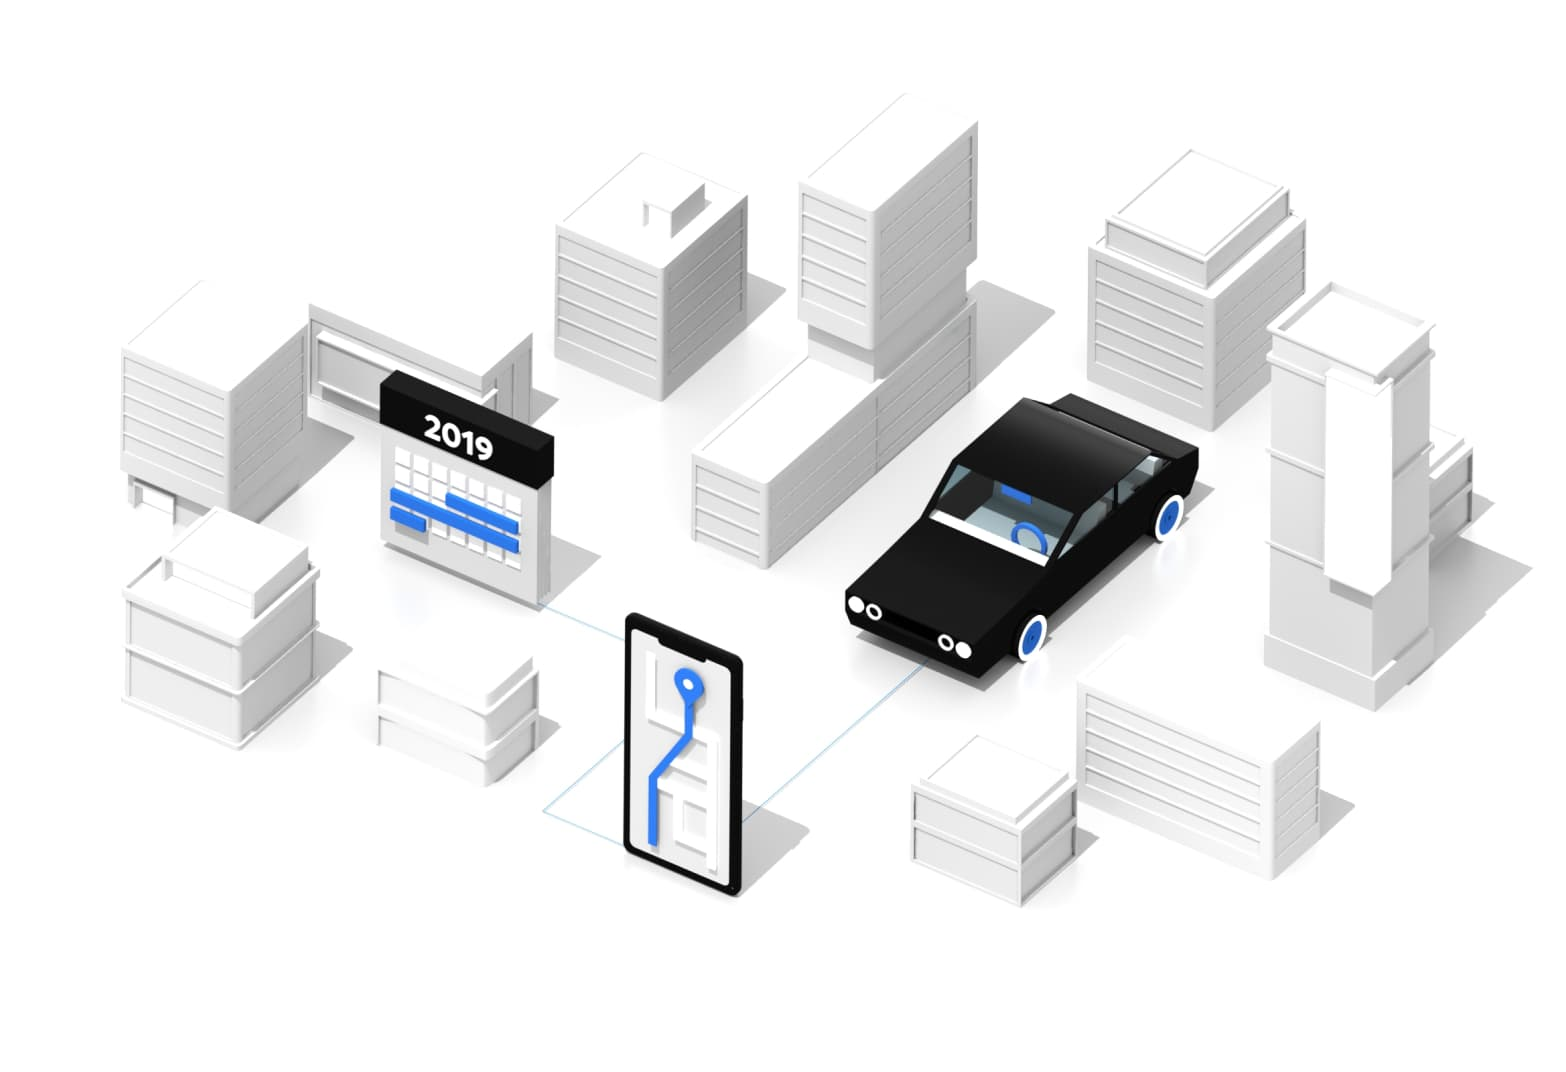
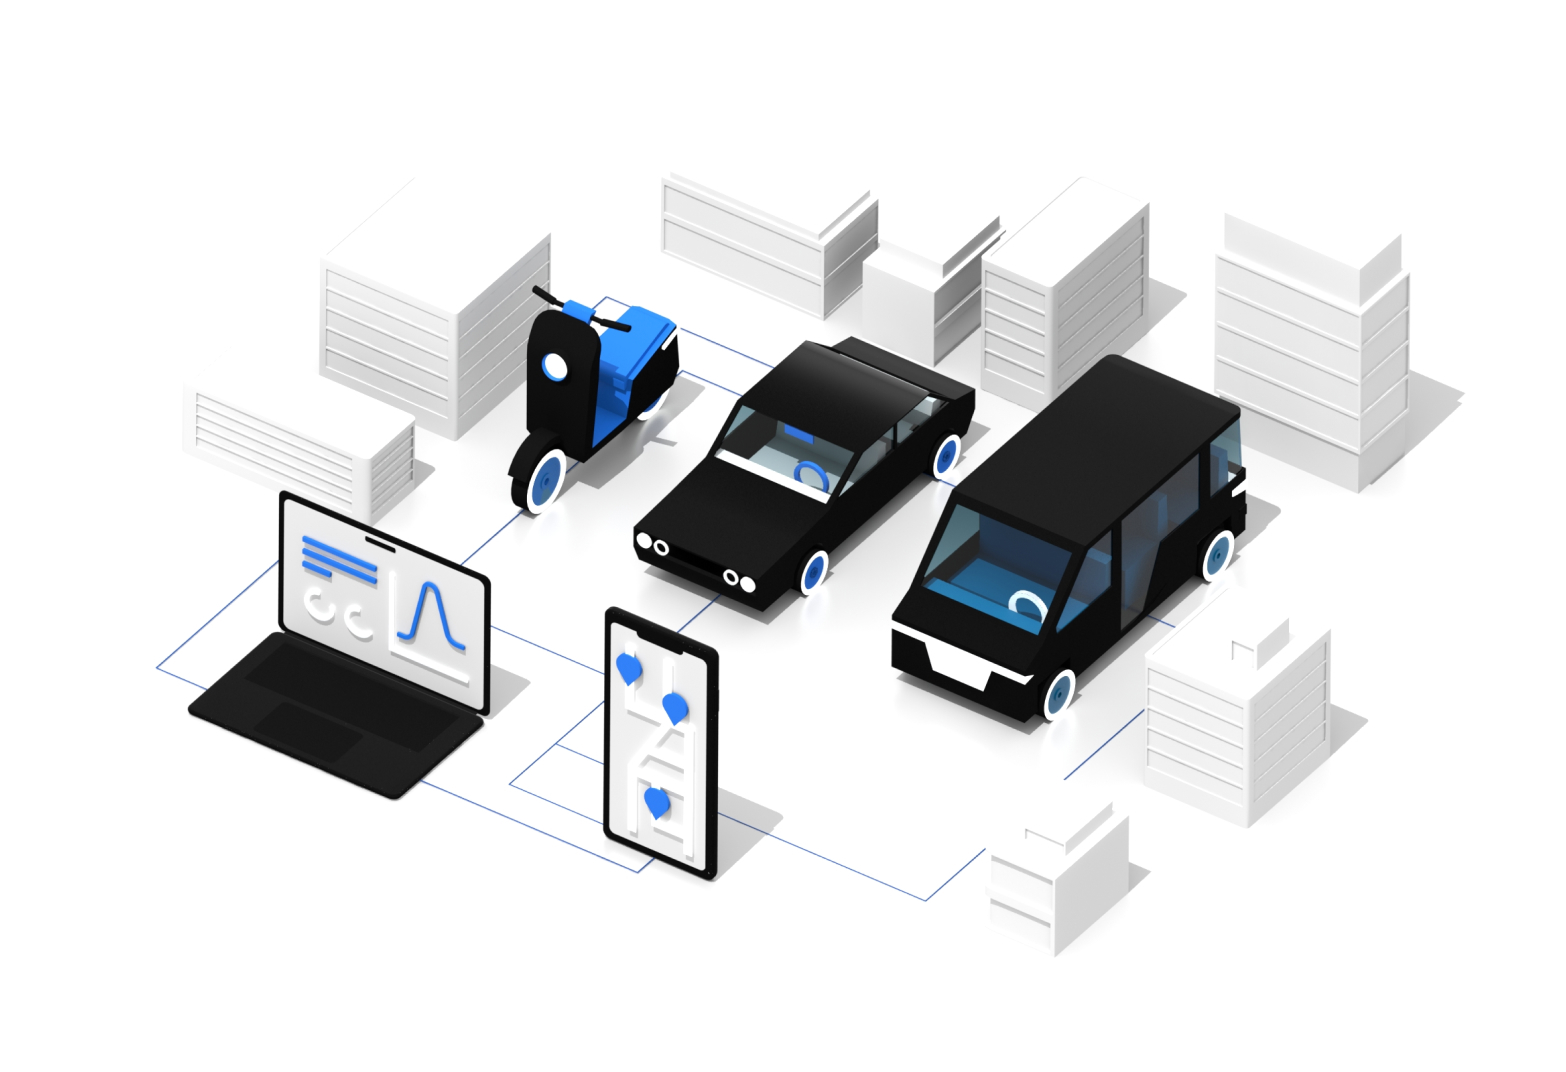
new rent page going live - ready for a/b/c test

Changed region(s): [[0.0613, 0.1231, 0.9808, 0.8927], [0.092, 0.5233, 0.1226, 0.5849], [0.0613, 0.5849, 0.092, 0.6157]]

diff --git a/_includes/static/block-rent-main.html b/_includes/static/block-rent-main.html
@@ -27,13 +27,17 @@
 
       <section id="section-os">
         <div class="row">
-          <div class="col-lg-10 offset-lg-2">
+          <div class="col-lg-9 offset-lg-3">
 
             <div class="row">
               <div class="col-md-5">
-                <h2 class="page-heading">Digitalize your existing operations or get your business off the ground</h2>
+                <h2 class="page-heading">Getting your booking rates up is easier than you think</h2>
                 <p class="lead">
-                  Take full control of your rental business with our all-in-one platform. Whether you’re operating an existing fleet or just getting started, we’ll provide you with industry-leading software and hardware to stay ahead of the competition.
+                  Revamp your rental company with minimal effort. Our software can help you get your utilization rate above <strong class="text-blue">90%</strong>.
+                </p>
+                <br>
+                <p class="lead">
+                  And we move fast - let's get your new-and-improved rental company ready within <strong class="text-blue"> 6 weeks</strong>.
                 </p>
               </div>
               <div class="col-sm-7 offset-sm-2 offset-md-0">
@@ -49,55 +53,75 @@
       <div class="product-area">
 
         <section id="section-value" class="product-section grid-section pb-5" >
-          <div class="wunder-bg right top-1"></div>
+          <div class="wunder-bg left top-1"></div>
           <div class="row">
-            <div class="col-lg-10 offset-lg-2">
-              <h2 class="page-heading mb-2">Your Benefits</h2>
-              <p class="lead text-grey2 mb-4">Here are a few of the ways Wunder Rent can help you make the most of your business:</p>
-              <div class="row">
-                <div class="col-lg-11 offset-lg-1">
-
-                  <div class="icon-grid__grid">
-                    <div class="icon-grid__item without-icon">
-                      <!--<img src="/uploads/global/parking-meter.svg" alt="Parking Meter icon" /> -->
-                      <h3 class="mt-2">Increase Utilization Rate</h3>
-                      <p class="mt-2">Never let your vehicles stand idle again.</p>
-                    </div>
-                    <div class="icon-grid__item without-icon">
-                      <!--<img src="/uploads/global/dollarbill.svg" alt="Dollar Bill" > -->
-                      <h3 class="mt-2">Digitize your operations</h3>
-                      <p class="mt-2">Bring your fleet into the 21st century.</p>
-                    </div>
-                    <div class="icon-grid__item without-icon">
-                      <!--<img src="/uploads/global/happy-face.svg" alt="Happy face"> -->
-                      <h3 class="mt-2">Stay Competitive</h3>
-                      <p class="mt-2">Keep up with demand with  cutting-edge technology.</p>
+            <div class="col-lg-9 offset-lg-3">
+              <h2 class="page-heading mb-5 pb-4">Your Benefits</h2>
+              {% comment %}<p class="lead text-grey2 mb-5 pb-4">Here are a few of the ways Wunder Rent can help you make the most of your business:</p>{% endcomment %}
+              <div class="row justify-content-center">
+                <div class="col-12 col-sm-8 col-md-4">
+                  <div class="icon-feature d-flex flex-md-column align-items-center align-items-md-start mb-5">
+                    <img class="mb-md-4 wide" src="/uploads/global/bluecar.svg" alt="A modern blue car icon" />
+                    <div class="d-flex flex-column d-md-block icon-feature__text pr-3">
+                      <h3 class="mb-2">Increase Utilization Rate</h3>
+                      <p>Never let your vehicles stand idle again.</p>
                     </div>
                   </div>
-
+                </div>
+                <div class="col-12 col-sm-8 col-md-4">
+                  <div class="icon-feature d-flex flex-md-column align-items-center align-items-md-start mb-5">
+                    <img class="mb-md-4" src="/uploads/global/paperless.svg" alt="An icon showing a laptop and a mobile phone" />
+                    <div class="d-flex flex-column d-md-block icon-feature__text">
+                      <h3 class="mb-2">Go Paperless</h3>
+                      <p>Digitize your documents & access them in the cloud 24/7.</p>
+                    </div>
+                  </div>
+                </div>
+                <div class="col-12 col-sm-8 col-md-4">
+                  <div class="icon-feature d-flex flex-md-column align-items-center align-items-md-start mb-5">
+                    <img class="mb-md-4" src="/uploads/global/payment.svg" alt="An icon showing a mobile phone and a credit card" />
+                    <div class="d-flex flex-column d-md-block icon-feature__text">
+                      <h3 class="mb-2">Online Booking & Payments</h3>
+                      <p>Your customers are already online - you could be, too.</p>
+                    </div>
+                  </div>
                 </div>
               </div>
+
             </div>
           </div>
         </section>
 
-        <section id="section-app1" class="product-section" >
-          <div class="wunder-bg left top-2"></div>
+        <section id="section-app1" class="product-section customer-app" >
+          <div class="wunder-bg right top-2"></div>
           <div class="row">
             <div class="col-lg-9 offset-lg-3">
+              <h2 class="page-heading">Your Customer's Experience</h2>
               <div class="row">
                 <div class="col-md-5 order-md-0 align-self-center">
-                  <h2 class="page-heading">Customer Experience</h2>
                   <div class="feature-list">
                     <div class="single-feature">
                       <div class="m-body">
-                        <h3 class="text-blue">Plan A Ride</h3>
-                        <p>Users can book weeks in advance with a convenient calendar view or on the spot when they see a vehicle.</p>
+                        <h3 class="text-blue">Booking in Advance</h3>
+                        <p>Users book weeks in advance with a convenient calendar view or on the spot when they see a vehicle.</p>
                       </div>
                     </div>
                   </div>
                 </div>
                 <div class="col-md-6 offset-md-1 order-md-1 text-center">
+                  <svg id="connecting-svg" width="553" height="791" viewBox="0 0 553 791" preserveAspectRatio="none" fill="none" xmlns="http://www.w3.org/2000/svg">
+                    <path id="connecting-path" d="
+                      M 551.5 0
+                      V 42.5
+                      C 551.5 48.0228 547.023 52.5 541.5 52.5
+                      H 11
+                      C 5.47716 52.5 1 56.9772 1 62.5
+                      V 701
+                      C 1 706.523 5.47715 711 11 711
+                      H 541.5
+                      C 547.023 711 551.5 715.477 551.5 721
+                      V 790.5" stroke="#2781FF" stroke-width="2" />
+                  </svg>
                   <img src="/uploads/global/rent-date.png" srcset="/uploads/global/rent-date@2x.png 2x" class="product-image" />
                 </div>
               </div>
@@ -105,45 +129,22 @@
           </div>
         </section>
 
-        <section id="section-app2" class="product-section" >
-          <div class="wunder-bg right top-3"></div>
+        <section id="section-app2" class="product-section customer-app" >
+          <div class="wunder-bg left top-3"></div>
           <div class="row">
-            <div class="col-lg-9 offset-lg-3">
+            <div class="col-lg-10 offset-lg-2">
               <div class="row">
-                <div class="col-md-5 offset-md-1 order-md-1 align-self-center">
+                <div class="col-md-5 order-md-1 offset-md-0 align-self-center">
                   <div class="feature-list">
                     <div class="single-feature">
                       <div class="m-body">
-                        <h3 class="text-blue">Choose a Vehicle</h3>
-                        <p>Users can select their vehicle type of choice and if they’d prefer to have a full tank or no fuel included.</p>
-                      </div>
-                    </div>
-                  </div>
-                </div>
-                <div class="col-md-6 order-md-0 text-center">
-                  <img src="/uploads/global/rent-choose.png" srcset="/uploads/global/rent-choose@2x.png 2x" class="product-image" />
-                </div>
-              </div>
-            </div>
-          </div>
-        </section>
-
-        <section id="section-app3" class="product-section" >
-          <div class="wunder-bg left top-4"></div>
-          <div class="row">
-            <div class="col-lg-9 offset-lg-3">
-              <div class="row">
-                <div class="col-md-5 order-md-0 align-self-center">
-                  <div class="feature-list">
-                    <div class="single-feature">
-                      <div class="m-body">
-                        <h3 class="text-blue">Confirm the Details</h3>
+                        <h3 class="text-blue">Confirming The Details</h3>
                         <p>After choosing their vehicle, users can decide on paying in advance or paying at pick-up. Reservation dates are confirmed and then it’s on to the next step.</p>
                       </div>
                     </div>
                   </div>
                 </div>
-                <div class="col-md-6 offset-md-1 order-md-1 text-center">
+                <div class="col-md-6 order-md-0 text-center">
                   <img src="/uploads/global/rent-needs.png" srcset="/uploads/global/rent-needs@2x.png 2x" class="product-image" />
                 </div>
               </div>
@@ -151,24 +152,24 @@
           </div>
         </section>
 
-        <section id="section-app4" class="product-section" >
-          <div class="wunder-bg right top-5"></div>
+        <section id="section-app3" class="product-section customer-app" >
+          <div class="wunder-bg right top-4"></div>
           <div class="row">
             <div class="col-lg-9 offset-lg-3">
               <div class="row">
-                <div class="col-md-5 offset-md-1 order-md-1 align-self-center">
+                <div class="col-md-5 offset-md-1 order-md-0 align-self-center">
                   <div class="feature-list">
                     <div class="single-feature">
                       <div class="m-body">
-                        <h3 class="text-blue">Convenient Pick Up</h3>
-                        <p>The perfect vehicle is never far away. Users choose the nearest pick-up location and can view helpful vehicle details like fuel level.</p>
+                        <h3 class="text-blue">Pick Up & Go</h3>
+                        <p>The perfect vehicle is never far away. Users choose the nearest pick-up location and view helpful details like fuel level.</p>
                         <br>
                         <p><strong>Once they’ve reached the vehicle, that’s it - users can unlock and drive away! </strong></p>
                       </div>
                     </div>
                   </div>
                 </div>
-                <div class="col-md-6 order-md-0 text-center">
+                <div class="col-md-6 order-md-1 text-center">
                   <img src="/uploads/global/rent-pickup.png" srcset="/uploads/global/rent-pickup@2x.png 2x" class="product-image" />
                 </div>
               </div>
@@ -348,7 +349,7 @@
       <section id="section-features" class="product-section pt-5" >
         <div class="row pt-5">
           <div class="col-lg-9 offset-lg-3">
-            <h2 class="page-heading pb-4">Useful features that enhance your rental operations</h2>
+            <h2 class="page-heading pb-4">Six ways Wunder Rent can boost your rental business</h2>
             <div class="row">
               <div class="col-12 col-sm-6 col-md-4">
                 <div class="icon-feature d-flex flex-md-column align-items-center align-items-md-start mb-5">

diff --git a/assets/js/main.js b/assets/js/main.js
@@ -547,25 +547,36 @@ var scroller = {
     window.msRequestAnimationFrame ||
     window.oRequestAnimationFrame;
     var $window = $(window);
+    this.initPath();
     var lastScrollTop = $window.scrollTop();
+    var pathRect = scroller.path.getBoundingClientRect();
     if(raf) {
       loop();
-      scroller.scroll(lastScrollTop);
+      scroller.scroll(lastScrollTop, pathRect);
     }
     function loop() {
       var scrollTop = $window.scrollTop();
+      var pathRect = scroller.path.getBoundingClientRect();
       if (lastScrollTop === scrollTop) {
         raf(loop);
         return;
       } else {
         lastScrollTop = scrollTop;
         // fire scroll function if scrolls vertically
-        scroller.scroll(lastScrollTop);
+        scroller.scroll(lastScrollTop, pathRect);
         raf(loop);
       }
     }
   },
-  scroll: function(lastScrollTop) {
+  initPath: function() {
+    this.path = $("#connecting-path")[0];
+    this.pathLength = this.path.getTotalLength();
+    // Make very long dashes (the length of the path itself)
+    this.path.style.strokeDasharray = this.pathLength + ' ' + this.pathLength;
+    // Offset the dashes so the it appears hidden entirely
+    this.path.style.strokeDashoffset = this.pathLength;
+  },
+  scroll: function(lastScrollTop, rect) {
     if (lastScrollTop >= 100) {
       scroller.header.addClass("navbar-narrow");
     } else {
@@ -577,9 +588,25 @@ var scroller = {
       scroller.menuCta.removeClass('bg-from-below');
     }
     //if (scroll <= 600) $(".video-banner").css('backgroundPosition', "center "+scroll/6+"px");
+    var path = scroller.path;
+    // What % down is it?
+    var scrollPercentage = (rect.top-(document.documentElement.clientHeight/2))*-1 / rect.height;
+    // Length to offset the dashes
+    var drawLength = scroller.pathLength * scrollPercentage;
+    // Draw in reverse
+    path.style.strokeDashoffset = scroller.pathLength - drawLength;
+    // When complete, remove the dash array, otherwise shape isn't quite sharp
+   // Accounts for fuzzy math
+    if (scrollPercentage >= 0.99) {
+      path.style.strokeDasharray = "none";
+    } else {
+      path.style.strokeDasharray = scroller.pathLength + ' ' + scroller.pathLength;
+    }
+
   }
 }
 scroller.init();
+
 
 
 var googleMap = {

diff --git a/_sass/pages/_rent.scss b/_sass/pages/_rent.scss
@@ -11,6 +11,9 @@
   .product-section {
     @include rwd(desktop-up) {
       margin-top: rem(120px);
+      &.customer-app:not(#section-app1) {
+        margin-top: 2rem;
+      }
     }
 
     .product-image {
@@ -29,8 +32,8 @@
   #section-app1 {
     h2.page-heading {
       @include rwd(tablet-up) {
-        transform: translateY(-80px);
-        margin-top: -150px;
+        /*transform: translateY(-80px);
+        margin-top: -150px;*/
       }
     }
   }
@@ -48,6 +51,9 @@
     @include rwd(tablet-up){
       padding-right: 0;
       max-width: 64px;
+      &.wide {
+        max-width: 92px;
+      }
     }
   }
 
@@ -101,4 +107,20 @@
     right: -300px;
     width: calc(100% + 250px);
   }
+}
+
+
+#connecting-svg {
+  position: absolute;
+  z-index: 0;
+  top: 90%;
+  right: calc(100% - 213px);
+  @include rwd(wide-up) {
+    width: calc(100% + 70px);
+  }
+
+  path {
+    will-change: transform;
+  }
+  
 }

diff --git a/_sass/components/_icon-text.scss b/_sass/components/_icon-text.scss
@@ -130,6 +130,14 @@
     }
 
   }
+
+  &.without-cards {
+    .icon-grid__item {
+      box-shadow: none;
+      text-align: left;
+      background-color: transparent;
+    }
+  }
 }
 
 .our-teams__item:hover {
